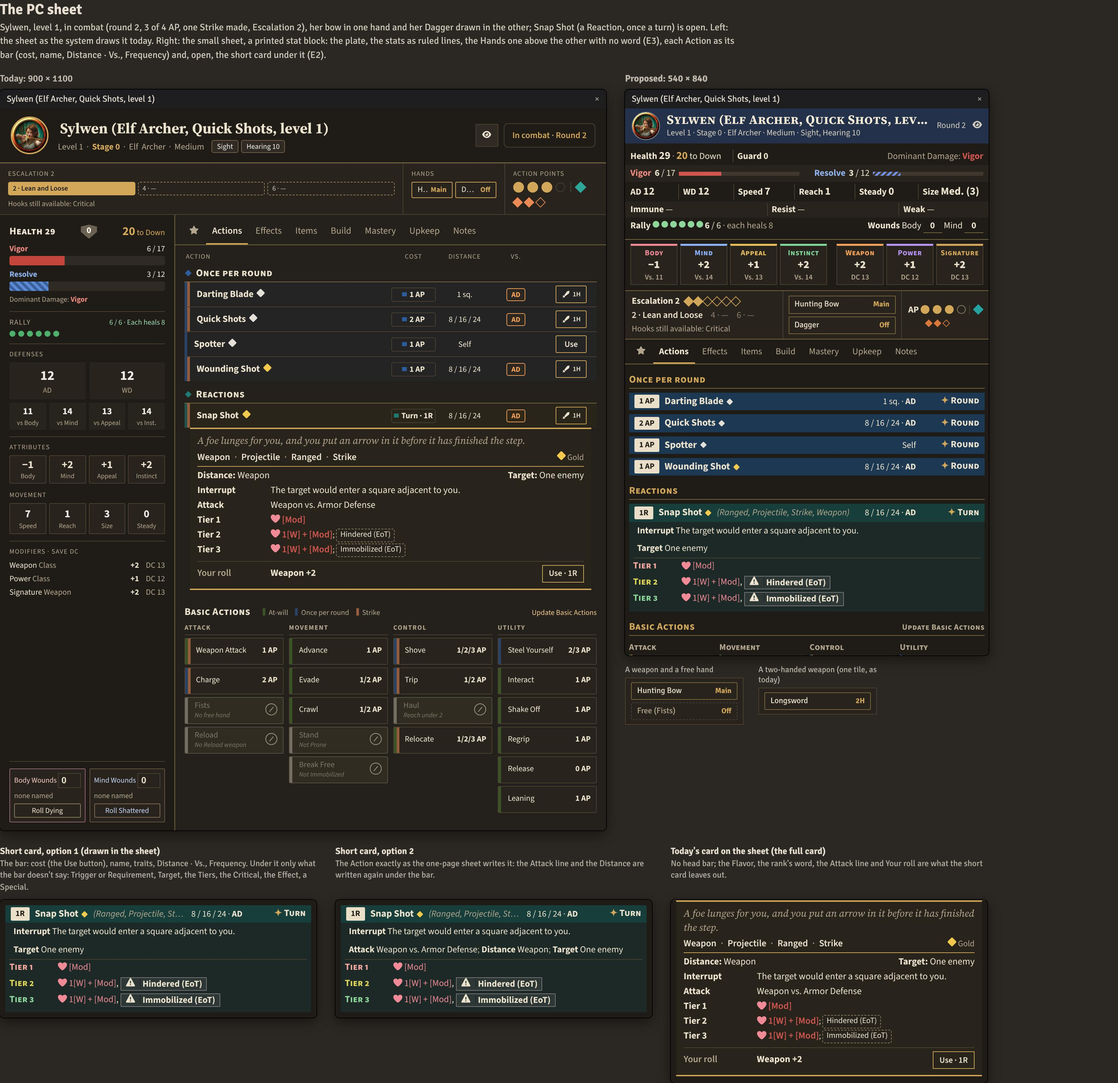
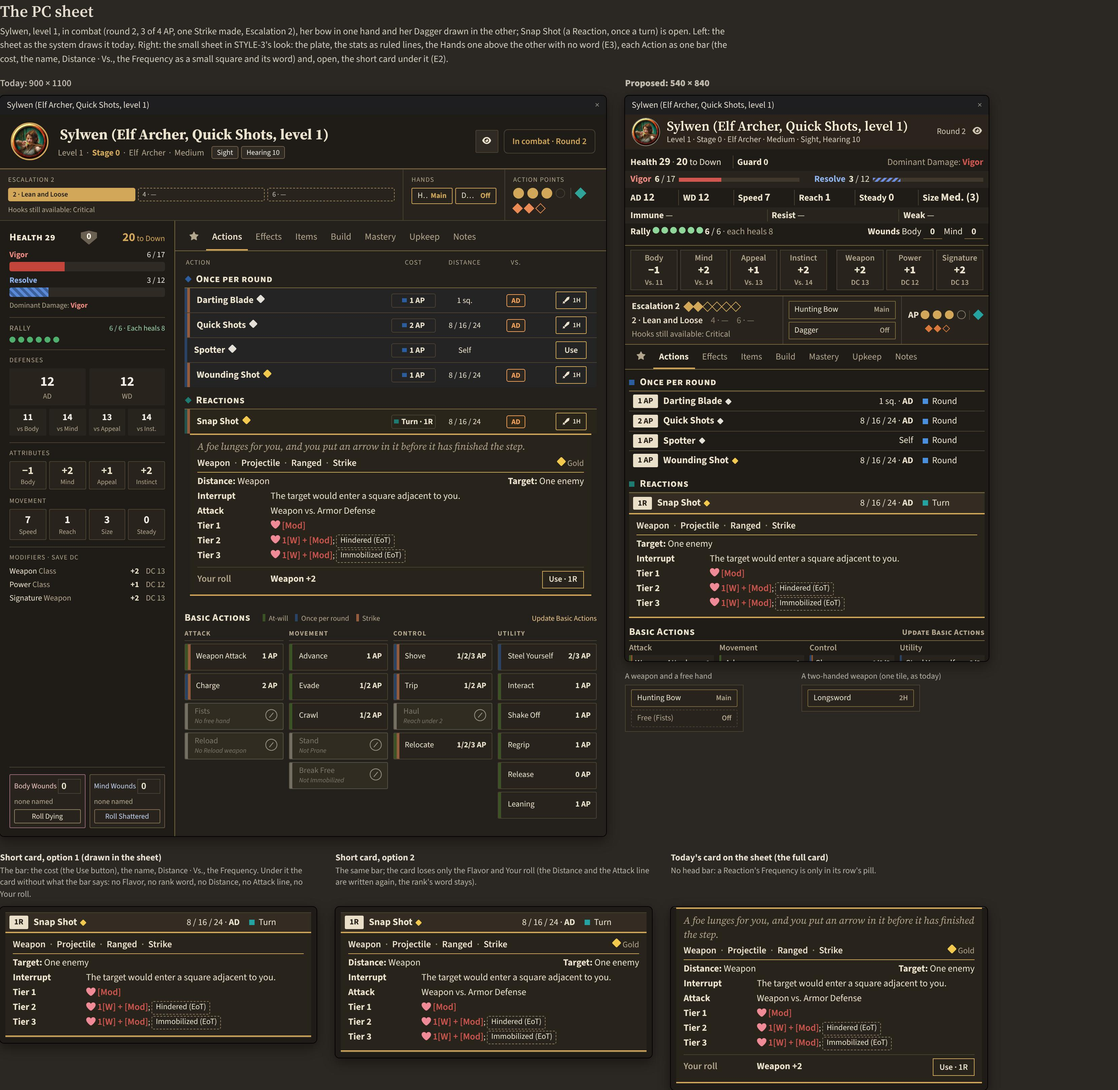
The sheet mockups redrawn in STYLE-3's look (Source Serif 4 / Source Sans 3, color only for a meaning, the Frequency a small square, the approved Action card as the short card); the one-page NPC sheet dropped (Lucas: the NPC sheet is already better)
Claude-Session: https://claude.ai/code/session_0153o4CfCUCLH9G4ipibAUr7

diff --git a/foundry/mockups/sheets/sheets.css b/foundry/mockups/sheets/sheets.css
@@ -1,5 +1,5 @@
 /* The sheets redesign mockup: the page, and the proposals' layout. */
-body { margin: 0; padding: 20px; font-family: "Signika", sans-serif; font-size: 14px; } * { animation: none !important; transition: none !important; }
+body { margin: 0; padding: 20px; font-family: "Source Sans 3", sans-serif; font-size: 14px; } * { animation: none !important; transition: none !important; }
 body.theme-dark { background: #2b2722; color: #e6dfd1; } body.theme-light { background: #ddd6c8; color: #1d1a16; }
 .mk-err { color: #f66; font: 12px monospace; white-space: pre-wrap; }
 .mk-cols { display: flex; gap: 28px; align-items: flex-start; }
@@ -8,8 +8,8 @@ body.theme-dark { background: #2b2722; color: #e6dfd1; } body.theme-light { back
 .mk-win > .application > .window-header { flex: none; display: flex; align-items: center; justify-content: space-between; height: 30px; padding: 0 10px; background: #14110e; color: #e6dfd1; font-size: 13px; }
 .mk-win > .application > .window-content { position: relative; flex: 1; min-height: 0; display: flex; flex-direction: column; overflow: hidden; }
 i.fa-x { display: inline-flex; width: 1em; height: 1em; vertical-align: -0.125em; } i.fa-x > svg { width: 1em; height: 1em; fill: currentColor; }
-h2 { font: 700 22px "Signika", sans-serif; margin: 0 0 4px; } h3 { font: 600 14px "Signika", sans-serif; margin: 0 0 8px; opacity: .8; } h3 b { opacity: 1; }
-h4 { font: 700 13.5px "Signika", sans-serif; margin: 0 0 2px; }
+h2 { font: 600 24px "Source Serif 4", serif; margin: 0 0 4px; } h3 { font: 600 14px "Source Sans 3", sans-serif; margin: 0 0 8px; opacity: .8; } h3 b { opacity: 1; }
+h4 { font: 700 13.5px "Source Sans 3", sans-serif; margin: 0 0 2px; }
 .mk-lead { max-width: 1100px; margin: 0 0 16px; line-height: 1.45; opacity: .9; } .mk-pair { margin-bottom: 44px; }
 #nav { display: flex; gap: 14px; margin-bottom: 18px; font-size: 13px; } #nav a { color: inherit; opacity: .7; } #nav a.on { opacity: 1; font-weight: 700; text-decoration: none; }
 .mk-win > .application > .window-header .mk-x { opacity: .6; }
@@ -25,7 +25,7 @@ h4 { font: 700 13.5px "Signika", sans-serif; margin: 0 0 2px; }
 .mk-sheet, .mk-long { display: flex; flex-direction: column; flex: 1; min-height: 0; background: var(--s-pg); color: var(--s-ink); }
 .mk-sheet.mk-loose { display: block; } .mk-sheet.mk-loose .sb-body { padding: 8px; }
 .mk-scroll { flex: 1; min-height: 0; overflow: hidden; }
-.twod12-sb.rk-pc { --rk: #23324a; }
+.twod12-sb.rk-pc { --rk: #2a241d; }
 .mk-pad { padding: 0 8px 8px; }
 /* the plate: the portrait and the line under the name */
 .twod12-sb .mk-plate { gap: 10px; padding: 5px 10px; flex: none; }
@@ -54,7 +54,7 @@ h4 { font: 700 13.5px "Signika", sans-serif; margin: 0 0 2px; }
 .mk-esc .mk-q { font-size: 12.5px; }
 /* E3: no word "Hands"; one hand above the other; each tile the size it has today (12 px, 4 px 8 px) */
 .mk-hands { display: flex; flex-direction: column; justify-content: center; gap: 4px; padding: 6px 8px; }
-.mk-hand { all: unset; box-sizing: border-box; display: flex; justify-content: space-between; align-items: baseline; gap: 8px; padding: 4px 8px; border: 1px solid var(--s-rule); border-radius: 2px; font: 400 12px/1.35 "Signika", sans-serif; color: var(--s-ink); cursor: pointer; }
+.mk-hand { all: unset; box-sizing: border-box; display: flex; justify-content: space-between; align-items: baseline; gap: 8px; padding: 4px 8px; border: 1px solid var(--s-rule); border-radius: 2px; font: 400 12px/1.35 "Source Sans 3", sans-serif; color: var(--s-ink); cursor: pointer; }
 .mk-hand span { min-width: 0; overflow: hidden; text-overflow: ellipsis; white-space: nowrap; } .mk-hand b { color: var(--s-gold); font-size: 11px; }
 .mk-hand.free { border-style: dashed; border-color: var(--s-hair); color: var(--s-mute); } .mk-hand.warn { border-color: #e0a030; }
 .mk-ap { align-items: flex-start; gap: 6px; }
@@ -65,24 +65,35 @@ h4 { font: 700 13.5px "Signika", sans-serif; margin: 0 0 2px; }
 /* the tabs */
 .mk-tabs { display: flex; gap: 2px; padding: 4px 8px 0; border-bottom: 1px solid var(--s-rule); flex: none; }
 .mk-tabs a { padding: 5px 9px 6px; color: var(--s-mute); font-size: 13.5px; border-bottom: 2px solid transparent; cursor: pointer; white-space: nowrap; } .mk-tabs a.on { color: var(--s-ink); font-weight: 700; border-bottom-color: var(--s-gold); } .mk-tabs a small { color: var(--s-gold); font-weight: 700; }
-/* an Action's bar (the stat-block face's header) and the short card under it */
-.twod12-sb .mk-oa .sb-oa-h { cursor: pointer; padding-top: 3px; padding-bottom: 3px; } .twod12-sb .mk-oa .sb-oa-h .n { white-space: nowrap; } .twod12-sb .mk-oa:not(.open) { background: none; }
-.twod12-sb .mk-oa .sb-oa-h .autodia { font-size: 9px; margin-left: -3px; }
-.mk-dv { margin-left: auto; white-space: nowrap; color: var(--s-ink); font-size: 13px; } .mk-dv + .fq { margin-left: 4px !important; min-width: 82px; text-align: right; } .mk-vs { font-weight: 700; }
-.twod12-sb .mk-oa .sb-oa-h .tr { flex: 0 1 auto; }
 .mk-tools { display: flex; justify-content: flex-end; gap: 16px; font-size: 12.5px; color: var(--s-mute); } .mk-tools a { color: inherit; cursor: pointer; }
 /* the Basic Actions */
 .mk-basic { display: grid; grid-template-columns: repeat(4, minmax(0, 1fr)); gap: 0 8px; align-items: start; }
 .mk-bh { display: block; padding: 2px 0; font-weight: 700; font-variant: small-caps; color: var(--s-mute); font-size: 13px; }
-.mk-bx { all: unset; box-sizing: border-box; display: flex; justify-content: space-between; align-items: center; gap: 6px; width: 100%; min-height: 25px; padding: 2px 6px; margin-bottom: 3px; border-left: 3px solid var(--lnf); background: var(--s-pg-2); font: 400 13px/1.25 "Signika", sans-serif; color: var(--s-ink); cursor: pointer; }
+.mk-bx { all: unset; box-sizing: border-box; display: flex; justify-content: space-between; align-items: center; gap: 6px; width: 100%; min-height: 25px; padding: 2px 6px; margin-bottom: 3px; border-left: 3px solid var(--lnf); background: var(--s-pg-2); font: 400 13px/1.25 "Source Sans 3", sans-serif; color: var(--s-ink); cursor: pointer; }
 .mk-bx.strike { box-shadow: inset 2px 0 0 #d9773a; } .mk-bx span { min-width: 0; overflow: hidden; text-overflow: ellipsis; white-space: nowrap; } .mk-bx b { font-size: 12px; white-space: nowrap; }
 .mk-bx.off { color: var(--s-faint); background: none; border-left-style: dashed; } .mk-bx small { display: block; font-size: 10.5px; font-style: italic; }
-/* the long page's tail: Effects, Notes, Build */
-.mk-long .mk-tail .sb-body { padding-top: 0; }
-.mk-fx { display: grid; grid-template-columns: 96px minmax(0, 1fr) auto 14px; gap: 8px; padding: 3px 4px; border-bottom: 1px solid var(--s-hair); align-items: baseline; } .mk-fx .du { color: var(--s-mute); font-size: 12.5px; white-space: nowrap; } .mk-fx a { color: var(--s-mute); cursor: pointer; } .mk-fx.none { display: block; color: var(--s-mute); font-style: italic; } .mk-fx .tx p { margin: 0; }
-.mk-notes { padding: 2px 4px 4px; line-height: 1.45; } .mk-notes p { margin: 0 0 4px; }
-.mk-bsum { display: flex; flex-wrap: wrap; gap: 2px 16px; padding: 2px 4px; color: var(--s-ink); } .mk-bsum .k { font-weight: 700; }
 .twod12-sb .sb-band .add i, .twod12-sb .sb-band .r i { font-size: 10px; }
-.mk-long > .twod12-sb.sb-platew { flex: none; } .mk-end .mk-scroll, .mk-long .mk-scroll { overflow: hidden; }
-.mk-inset { display: flex; gap: 22px; align-items: flex-start; margin-top: 14px; } .mk-inset > div { width: 176px; } .mk-inset .mk-hands { padding: 0; } .mk-inset p { margin: 0 0 4px; font-size: 12px; opacity: .75; }
-.mk-inset .mk-hands { background: var(--s-pg-2); padding: 6px 8px; border: 1px solid var(--s-hair); }
+
+/* ------------------------------------------------------------------ STYLE-3 (style-book.md, v0.0.387) on the proposals */
+/* the one big title in the serif, in its own case (no capitals); everything else Source Sans 3 */
+.mk-sheet.twod12-sb .mk-plate .nm { font: 600 20px/1.2 "Source Serif 4", serif; font-variant: normal; letter-spacing: 0; }
+/* color only for a meaning: the tiles in ink, no colored tops; labels in their own case */
+.mk-sheet.twod12-sb .mk-attrs .sb-attr { --ac: var(--s-mute); border: 1px solid var(--s-hair); border-top: 1px solid var(--s-hair); }
+.mk-sheet.twod12-sb .mk-attrs .sb-attr span { font: 600 12.5px "Source Sans 3", sans-serif; font-variant: normal; letter-spacing: 0; color: var(--s-mute); }
+.mk-sheet.twod12-sb .sb-band { color: var(--s-ink); } .mk-sq { display: inline-block; width: 8px; height: 8px; align-self: center; flex: none; }
+.mk-hand b { color: var(--s-mute); font-weight: 600; }
+.mk-bh { font-variant: normal; font-weight: 600; font-size: 12.5px; }
+/* an Action's bar: the neutral band, the stamp, the Frequency a small square beside its word */
+.mk-oa { border-top: 1px solid var(--s-hair); } .mk-oa:last-of-type { border-bottom: 1px solid var(--s-hair); } .mk-oa.dim > * { opacity: .5; }
+.mk-sheet .sb-body { gap: 0; } .mk-sheet .sb-body > .sb-band { margin-top: 10px; margin-bottom: 0; border-bottom-color: var(--s-rule); } .mk-sheet .sb-body > .sb-band:first-child, .mk-sheet .sb-body > .mk-tools + .sb-band { margin-top: 2px; }
+.mk-bar { display: flex; align-items: center; gap: 8px; padding: 4px 8px 4px 6px; cursor: pointer; } .mk-oa.open > .mk-bar { background: var(--s-band); }
+.mk-bar .n { font-weight: 700; font-size: 14.5px; color: var(--s-ink); white-space: nowrap; } .mk-bar .tr { font-style: italic; color: var(--s-mute); white-space: nowrap; overflow: hidden; text-overflow: ellipsis; min-width: 0; }
+.mk-bar .autodia { font-size: 9px; margin-left: -3px; }
+.mk-dv { margin-left: auto; white-space: nowrap; font-size: 13.5px; color: var(--s-ink); } .mk-dv b { font-weight: 700; }
+.mk-fq { display: inline-flex; align-items: center; gap: 6px; min-width: 84px; justify-content: flex-start; font-size: 13.5px; color: var(--s-ink); white-space: nowrap; margin-left: 6px; } .mk-fq i { width: 8px; height: 8px; flex: none; }
+/* the short card: the system's Action card under the bar (its own frame's rule kept at the bottom) */
+.mk-oa > .mk-short { margin: 0; padding: 6px 10px 8px 10px; border: 0; border-bottom: 1px solid var(--s-gold); background: var(--s-pg-2); }
+/* the Basic Actions' strips, muted (step 3) */
+.mk-bx { border-left-color: color-mix(in srgb, var(--lnf) 55%, var(--s-pg-2)); } .mk-bx.strike { box-shadow: inset 2px 0 0 color-mix(in srgb, #d9773a 55%, var(--s-pg-2)); }
+.mk-inset { display: flex; gap: 22px; align-items: flex-start; margin-top: 14px; } .mk-inset > div { width: 240px; } .mk-inset p { margin: 0 0 4px; font-size: 12px; opacity: .75; }
+.mk-inset .mk-hands { width: 176px; box-sizing: border-box; background: var(--s-pg-2); padding: 6px 8px; border: 1px solid var(--s-hair); }

diff --git a/foundry/mockups/sheets/README.md b/foundry/mockups/sheets/README.md
@@ -1,15 +1,20 @@
 # The sheets redesign (playtest 5, E1 / E2 / E3 / E6): the mockup
 
-Lucas (playtest 5): "Both sheets will need some changes. PCs and normal NPC sheet should be small, but the one-page should be long"; a Reaction
-previewed on the sheet doesn't show its Frequency (E2); the Hands are the right size but don't fit: no word "Hands", one hand above the other
-(E3); Blunt on the dark NPC sheet is too close to the background (E6).
+Lucas (playtest 5): "Both sheets will need some changes. PCs and normal NPC sheet should be small"; a Reaction previewed on the sheet doesn't
+show its Frequency (E2); the Hands are the right size but don't fit: no word "Hands", one hand above the other (E3); Blunt on the dark NPC sheet
+is too close to the background (E6).
 
-**A mockup only: nothing in `foundry/twod12/` or `book/` changed.** For each of the three sheets the page draws **today's sheet next to the
+**Round 2 (Lucas, 2026-11-18: "good and compact", but the colors and the Tier colors followed old rules, and "no need for one-page sheet since
+the npc one is already better anyway"):** the proposals are redrawn in STYLE-3's look (`../style-book.md`, "Lucas's answers", built v0.0.387)
+and the one-page NPC sheet is out of the mockup. **In the build the one-page NPC sheet would be retired** (`NpcStatBlockSheet`, the world
+setting "New NPCs open with", `statblock.mjs`'s sheet face; "Post stat block" is the full sheet's own and stays).
+
+**A mockup only: nothing in `foundry/twod12/` or `book/` changed.** For each of the two sheets the page draws **today's sheet next to the
 proposal**, dark and light.
 
 - `index.html` (`sheets.mjs`, `model.mjs`, `proposal.mjs`, `stubs.mjs`, `sheets.css`): open it through a local server from the repository's root
-  (`/foundry/mockups/sheets/index.html?theme=dark|light&sheet=pc|npc|onepage`; the links at the top switch).
-- Screenshots (2x): `pc-dark.jpg`, `pc-light.jpg`, `npc-dark.jpg`, `npc-light.jpg`, `onepage-dark.jpg`, `onepage-light.jpg`.
+  (`/foundry/mockups/sheets/index.html?theme=dark|light&sheet=pc|npc`; the links at the top switch).
+- Screenshots (2x): `pc-dark.jpg`, `pc-light.jpg`, `npc-dark.jpg`, `npc-light.jpg`.
   `node foundry/mockups/sheets/shoot.mjs` remakes them (Playwright); `node foundry/mockups/sheets/data.mjs` remakes `actors.json` from the built packs.
 
 ## The sizes
@@ -18,38 +23,38 @@ proposal**, dark and light.
 |---|---|---|
 | The PC sheet (Sylwen, level 1) | 900 × 1100 | **540 × 840** |
 | The full NPC sheet (the Orc Warrior) | 900 × 1100 | **540 × 760** |
-| The one-page NPC sheet (the Ogre Chieftain) | 480 × 820 | **480 × 1000** |
 
-The two small sheets take a little under half the area they take today. At these sizes, with one card open: Sylwen's five Actions and the open
-card show without scrolling and the Basic Actions start at the fold; the Orc's three Actions and its open card show whole. The Ogre (an Elite, the
-book's longest stat block) shows every Action and its Escalation ladder in the 1000 px (today's 820 px stops inside the ladder); its Attribute
-tiles, Effects, Notes and Build are one scroll below (the third picture).
+A little under half the area they take today. With one card open: Sylwen's five Actions and the open card show without scrolling and the Basic
+Actions start at the fold; the Orc's three Actions and its open card show whole.
 
-## The idea: one family
+## The look (STYLE-3)
 
-The settled look says a sheet is a printed stat block, and the one-page NPC sheet already is one (`.twod12-sb` in system.css). The proposal makes
-the three sheets one family, with that CSS:
+- **Type:** Source Serif 4 for the one big title (the name on the plate, in its own case, no capitals); Source Sans 3 for everything read.
+- **Color only for a meaning:** game words, the Attribute and Modifier tiles (no colored tops), the Hands' grip words, "to Down" and the section
+  headings in ink. Kept: the bronze accent (rules, the open tab, the Escalation pips), the stamp, the pools (Vigor red, Resolve blue), the rank's
+  color on an NPC's plate (a PC's plate is the neutral dark head it has today), the subtypes' colors, the automation diamond.
+- **The Frequency is a small colored square beside its word** ("■ Round"), on each Action's bar and on the section's heading; the bar itself is
+  neutral (the band's tone when open). The Basic Actions keep their vertical strips, muted.
+- **No Tier color on the card:** the short card is the approved Action card (style-book step 5: labeled lines, "Tier 1" in ink). No Tier result
+  is drawn on a sheet, so palette A doesn't appear here.
 
-- **The two small sheets:** the name plate (the rank's color; a PC's is the old sheet's navy), the stats as ruled lines, the Attribute and
-  Modifier tiles, one combat line, the tabs, and **each Action as its header bar only**; a click opens the **short card** under the bar.
-- **The long one-page:** no tabs. The stat block exactly as `statblock.mjs` draws it today (`sbPlateHtml`, `statBlockHtml`), every Action written
-  out, then Effects, Notes, GM notes and Build down the page.
+## The layout
 
-So the small sheets are the long one folded: an Action's bar and its open body are the stat block's own Action (`sbActionModel` + `sbActionHtml`,
-the card model's face), not a new card.
+The name plate, the stats as ruled lines, the Attribute and Modifier tiles, one combat line, the tabs, and **each Action as one bar**; a click
+opens the **short card** under the bar.
 
 ## E2: the short card
 
-Today the sheet's open card has no head bar, so a Reaction never says "Turn". In the proposal **the row is the card's head bar**, open or closed:
-the cost (the stamp), the name, Distance · Vs., and the Frequency ("✦ Turn") in the Frequency's color. The short card is what opens under it.
-Two options, both drawn under the PC pair beside today's full card:
+Today the sheet's open card has no head bar, so a Reaction's Frequency is only in its row's pill. In the proposal **the row is the card's head
+bar**, open or closed: the cost (the stamp), the name, Distance · Vs., and the Frequency (its square and its word). The short card opens under
+it: the system's own Action card (`actioncard.mjs buildActionCard`) with lines left out. Two options, both drawn under the PC pair beside
+today's full card:
 
-- **Option 1 (recommended, drawn in the sheets): only what the bar doesn't say.** Under the bar: the traits (in the bar, while it is open), the
-  Requirement / Trigger / Setup, the Target (and Area), the Tiers as three lines, the Critical, the Effect, a Special. **Dropped from the full
-  card:** the Flavor, the automation rank's word (its diamond stays beside the name), the Attack / Save line and the Distance (the bar's
-  "8 / 16 / 24 · AD" says them), "Your roll" (the roll dialog shows it), the Ruler line.
-- **Option 2: the stat block's Action as the one-page writes it.** The same, but the Attack line and the Distance are written again under the
-  bar. No new flag in the code; one line longer.
+- **Option 1 (recommended, drawn in the sheets): without what the bar says.** Kept: the trait words, Target (and Area), the Requirement /
+  Trigger / Setup, the Tiers, the Critical, the Effect, a Special. **Dropped from the full card:** the Flavor, the automation rank's word (its
+  diamond stays beside the name), the Distance and the Attack / Save line (the bar's "8 / 16 / 24 · AD"), "Your roll" (the roll dialog shows
+  it), the Ruler line.
+- **Option 2:** only the Flavor and "Your roll" are dropped; the Distance, the Attack line and the rank's word are written under the bar.
 
 The full card stays where it is today (the chat's Card button, the hover card, the Action sheet).
 
@@ -61,26 +66,25 @@ drawn (the sheet, and the two small pictures under it).
 
 ## E6: Blunt on the dark sheet
 
-The cause, seen in today's pictures: a damage type's word and its flat amount carry the parchment's ink as an inline color (`config.mjs`
-`subtypeInk`: Blunt `#5a4a36`, Slash `#4a5058`) on every theme. The proposals use the bright set on dark (`subtypeColors`: Blunt bronze
-`#b9a58c`, what the Resist / Weak chips already do with `--sc-l` / `--sc-d`). **Found beside it:** on a *light* sheet the stat block writes the
-Vigor / Resolve dice in the dark set's pale pink and blue (see "Today" in `onepage-light.jpg`); the proposals give them the light set's colors.
+The cause, seen in today's NPC picture (the cleaver's "Slash"): a damage type's word and its flat amount carry the parchment's ink as an inline
+color (`config.mjs` `subtypeInk`: Blunt `#5a4a36`, Slash `#4a5058`) on every theme. The proposals use the bright set on dark (`subtypeColors`:
+Blunt bronze `#b9a58c`, what the Resist / Weak chips already do with `--sc-l` / `--sc-d`).
 
 ## What each proposal adds, moves or removes (veto any line)
 
 **The PC sheet**
 - *Moved:* the side panel is gone; its content is the ruled lines on top (Health, to Down, Guard, Dominant Damage; the Vigor and Resolve bars,
   still the damage taken, Lethal solid and Nonlethal hatched; AD, WD, Speed, Reach, Steady, Size; Immune / Resist / Weak; Rally and the Wound
-  counts). The four "vs" Defenses go into the Attribute tiles ("Vs. 11"), the Modifiers and their Save DCs into three tiles beside them (as the
-  one-page sheet does). The Senses become words in the line under the name. "In combat · Round 2" becomes "Round 2" on the plate; Roll
-  Initiative becomes the plate's die icon (shown when there is a roll to make), as on the one-page sheet.
+  counts). The four "vs" Defenses go into the Attribute tiles ("Vs. 11"), the Modifiers and their Save DCs into three tiles beside them. The
+  Senses become words in the line under the name. "In combat · Round 2" becomes "Round 2" on the plate; Roll Initiative becomes an icon on the
+  plate (shown when there is a roll to make).
 - *Moved:* in a row, the cost pill becomes the stamp at the left, **and the stamp is the Use button** (decision 3); Distance and Vs. are words at
-  the right, not columns (the column header line goes).
+  the right, not columns (the column header line goes); the Frequency's square leaves the pill for the right end, with its word.
 - *Moved:* the Wounds' "Roll Dying" / "Roll Shattered" buttons and "none named" leave the front for the Upkeep tab's Wounds section (the counts
   stay on the front).
-- *Added:* the Frequency on every row (E2); six Escalation pips beside the three rungs (the rungs become words, lit or faint).
-- *Removed:* the word "Hands" (E3); the row's weapon button with its grip tag ("1H"); the Basic Actions' legend (At-will / Once per round /
-  Strike: each button keeps its colored edge); from the open card, what the short card drops.
+- *Added:* the Frequency's word on every row (E2); six Escalation pips beside the three rungs (the rungs become words, lit or faint).
+- *Removed:* the word "Hands" (E3); the row's weapon button with its grip tag ("1H"); the Vs. chip's colored box (the word stays, bold); the
+  Basic Actions' legend (each button keeps its strip); from the open card, what the short card drops.
 - *Kept as they are:* the tabs and what is in them (Effects, Items, Build, Mastery, Upkeep, Notes), the Favorites star, the sections' names, the
   Basic Actions' four columns (each Action one line instead of a box).
 
@@ -90,50 +94,41 @@ Vigor / Resolve dice in the dark set's pale pink and blue (see "Today" in `onepa
   PC's Escalation does.
 - *Kept:* the tabs (Actions, Effects, Builder, Loot, GM notes), "Basic attack · Medium" beside the Basic attack's name.
 
-**The one-page NPC sheet**
-- *Removed:* the tab bar (Main, Build, Effects, Notes).
-- *Moved:* Effects, Notes and Build become sections after the stat block. Effects: conditions then effects, one ruled line each (name, text,
-  duration, remove), without their picture squares; the drop zone's box becomes words in the section's heading (the whole sheet takes the drop).
-  Notes: each of today's four fields shown when it has text, with an Edit link. Build: a closed heading with the Builder's own summary (Health,
-  Turn budget, Best turn, CV steps); opened, it is today's Builder (decision 4).
-- *Unchanged:* the plate and the stat block (the same functions, the same output), but for E6's colors.
-
 ## Decisions for Lucas (answer by exception: "all defaults except 2")
 
-1. **The sizes.** *Default:* PC 540 × 840, full NPC 540 × 760, one-page 480 × 1000 (its width is the one you chose in v0.0.377). Otherwise: give
-   the numbers.
-2. **The short card.** *Default:* option 1 (only what the bar doesn't say). Otherwise: option 2 (the one-page's Action as it is).
-3. **The cost stamp is the Use button on the small sheets**, as on the one-page sheet and the HUD ("a Version is the button"); the row's separate
-   Use / weapon button goes. A PC holding two weapons that both fit the Action keeps a small button for each hand after the stamp. *Default:*
-   yes. Otherwise: the Use button stays at the right end as today and the cost is written as words.
-4. **The one-page's Build.** *Default:* a closed section at the end of the page (the page has no tabs at all). Otherwise: the page keeps one tab
-   pair, "Sheet" and "Build".
+1. **The sizes.** *Default:* PC 540 × 840, full NPC 540 × 760. Otherwise: give the numbers.
+2. **The short card.** *Default:* option 1 (without what the bar says). Otherwise: option 2 (only the Flavor and Your roll dropped).
+3. **The cost stamp is the Use button**, as on the HUD ("a Version is the button"); the row's separate Use / weapon button goes. A PC holding
+   two weapons that both fit the Action keeps a small button for each hand after the stamp. *Default:* yes. Otherwise: the outlined Use button
+   stays at the right end as today and the cost is written as words.
 
 ## What is real code and what is not
 
 - **Real:** today's sheets are the system's own template (`templates/actor-sheet-pc.hbs`, through Handlebars 4.7.8, `handlebars.min.js` here),
-  `styles/system.css` + `theme.css`, the open cards by `actioncard.mjs buildActionCard`, the one-page by `statblock.mjs` (`statBlockModel`,
-  `statBlockHtml`, `sbPlateHtml`). The numbers come from the system's data model (`data.mjs prepareDerivedData`, run on the compendium actor).
-  In the proposals every Action bar and short card is `sbActionModel` + `sbActionHtml`; the stat lines, tiles, bands and plate use the stat
-  block's CSS; the long page calls `sbPlateHtml` and `statBlockHtml` unchanged.
+  `styles/system.css` + `theme.css`, the open cards by `actioncard.mjs buildActionCard`. The numbers come from the system's data model
+  (`data.mjs prepareDerivedData`, run on the compendium actor). In the proposals the short card is `buildActionCard`'s own output with elements
+  removed (in the build: a `short` option of that face, so the card model still decides what a card says).
 - **Not real:** `pcsheet.mjs pcModel` needs a live Foundry actor and combat, so `model.mjs` builds the same shape from the compendium actor with
-  the sheet's pure pieces (`sheetmodel.mjs`, `config.mjs`, `pcsheet.mjs handTiles` and `npcBuilderModel`): every row is usable, nothing is used
-  up, no favorites. Foundry's window frame and its own CSS are not on the page (the frame is drawn); Font Awesome and Signika are Foundry's:
-  the mockups' drawn icons and embedded Signika stand in (the weapon button's sword is drawn here).
-- **The proposals' layout** is the mockup's CSS (`sheets.css`, `.mk-*`). Option 1's short card is `sbActionHtml` with the Attack / Save and
-  Distance entries taken out of its model, and the bar's Distance · Vs. words are put in by the mockup: in the build, a `short` flag of the stat
-  block face.
-- **Not drawn:** the other tabs of the small sheets. They keep their content; their column goes from 640 px (900 less the side panel) to 540 px,
-  and the Builder's damage table is the one that will need care. The opened Build section of the long page (today's Builder at 480 px, as the
-  one-page's Build tab shows it now). The out-of-combat state (the combat line then holds only the Hands). Decision 3's two
-hand buttons for a PC whose two held weapons both fit an Action (Sylwen's bow and Dagger never fit the same one). E5 (a sheet's own light theme under
-  Foundry's dark scheme) needs Foundry.
+  the sheet's pure pieces (`sheetmodel.mjs`, `config.mjs`, `pcsheet.mjs handTiles`): every row is usable, nothing is used up, no favorites.
+  Foundry's window frame and its own CSS are not on the page (the frame is drawn); Font Awesome is Foundry's: the mockups' drawn icons stand in
+  (the weapon button's sword is drawn here).
+- **The proposals' layout** is the mockup's CSS (`sheets.css`, `.mk-*`). The plate, the ruled stat lines, the tiles, the headings and the stamp
+  borrow the one-page sheet's rules (`.twod12-sb`: `sb-plate`, `sbl`, `sb-attr`, `sb-band`, `sb-vb`) with STYLE-3 laid over them in the mockup;
+  the build writes them as the sheet's own rules when the one-page sheet goes.
+- **Not drawn:** the other tabs. They keep their content; their column goes from 640 px (900 less the side panel) to 540 px, and the Builder's
+  damage table is the one that will need care. The out-of-combat state (the combat line then holds only the Hands). Decision 3's two hand
+  buttons for a PC whose two held weapons both fit an Action (Sylwen's bow and Dagger never fit the same one). E5 needs Foundry.
 - **Example state** laid on the compendium data: Sylwen in combat (round 2, 3 AP, one Strike, Escalation 2, 6 Vigor and 3 Nonlethal Resolve
-  damage) with her Dagger drawn in the off hand; the Orc with Resist 2 Blunt and Weak 2 Fire; the Ogre at Escalation 3 with Resist 2 Blunt, the
-  condition Hindered and two notes.
+  damage) with her Dagger drawn in the off hand; the Orc with Resist 2 Blunt and Weak 2 Fire.
+
+## Still in today's colors inside the proposals (they come from the system's code or today's sheet)
+
+- **A trait word in a card's text** ("[Strike]" in Avenge Kin's Trigger) keeps its tinted box: `config.mjs highlightText` (`.trhl`, the trait
+  group's color). STYLE-3 dropped the trait chips' fills; this one is still filled today. The build: the word in ink.
+- **The AP pips (accent), the Reaction AP's teal diamond, the Strikes' orange diamonds and Rally's green pips** are copied from today's sheet as
+  v0.0.387 left it. If "AP to ink" is meant for the pips too, the build draws them in ink.
+- **The damage line** (the pool's heart and dice in the pool's color, the type's word in its color) is the card's own: kept by STYLE-3.
 
 ## Seen in today's sheets while drawing them (not part of this mockup)
 
 - The Reactions' pill "Round · 1R" wraps onto two lines in its column (the Orc's Avenge Kin).
-- Ground Slam (the Ogre) writes no Area on any face: the item has the area's settings (a 2 Emanation) but no Area text.
-- The one-page's tile row leaves an empty column and wraps "Weapon Mod." when the NPC has no Power Modifier.

diff --git a/foundry/foundry-backlog.md b/foundry/foundry-backlog.md
@@ -71,7 +71,7 @@ The book: `rules-src/13-archer.md`, the cards in `book/cards/stage0/archer.json`
 - [x] **(v0.0.422) The hover card over a placed area is kept** (Lucas, 2026-11-18: "Keep it"; `module/zonetip.mjs`, his playtest 4 ask; the third hover left with the HP bars and the reasons a button is off). The audit's other question (two Judges vs. conditions) went into the book: rules-backlog "STACKING, A CARD SAYS SO".
 - [ ] **The version checklists (Lucas, 2026-11-18: "there should be a better way for me to follow the Checklists every Version ... maybe something that can be wired directly into Foundry"): PROPOSED; Lucas picked option 3 (2026-11-18: "I think I will go with 3"); BUILT in v0.0.425 (`module/checklist.mjs`, `foundry/to-test.md`, test t268). Left: option 4's set-up buttons (a Test Arena), option 5 (the system runs the checks), both later.** Found: the checklists are one section per version in this file (154 open boxes, 94 of them from v0.0.387-406, which Lucas approved when merging: "All works except momentum"; items a later version replaced stay open), v0.0.418-422's only in the reports and the changelog, and his results come back as free text. Proposed (the session's report): (1) one rolling list in "do / expect" lines, grouped by where you meet it, the approved and replaced items closed, only what the tests can't see (needed for any option); (2) a checklist page on his phone (an Artifact whose results Claude reads); (3) **recommended: a Test Checklist inside Foundry** (GM only, behind a world setting; a list window and a strip docked by the HUD showing one item; Pass / Fail / Skip and a note saved in the world; a Fail keeps the console errors and the version; "Copy report"; the list shipped in the release from the repo's list, a test keeping them equal); (4) set-up buttons on top of it (a Test Arena scene with the PCs and the Stage 0 NPCs, an item's button selects the token and opens the card); (5) later, the system runs the mechanical checks itself in the Arena. Mockup first for 3.
 - [ ] **The HUD mockup (Lucas, book/playtest-5.md 1g; NOT built):** D1 the Basic tab refitted, D3 the macro bar at the bottom with the Hands above it, D4 a condition as an icon in the free space under AP / Esc (no growing HUD), D7 a Setup's movement in the HUD (no floating bar), D2's readable weight; **the Situational section** holding every "act now" control (Linked Actions, Forced Movements, Stand and Crawl while Prone, a Setup's movement, End movement, Judge's "reduce this damage?") **and the triggers** (a Reaction you can use shows there the moment it triggers). C's reasons on screen (the tooltip review) belong here too.
-- [ ] **E1, E2, E3, E6: MOCKUPS MADE (2026-11-18, `foundry/mockups/sheets/`, README, six screenshots; drawn with the system's own template and renderers; waiting for Lucas's four decisions: the sizes 540 × 840 / 540 × 760 / 480 × 1000, the short card option 1, the cost stamp as the Use button, the one-page's Build as a closed section). Also seen there: on a light sheet the stat block writes the Vigor / Resolve dice in the dark set's pale colors; a Reaction's pill "Round · 1R" wraps; Ground Slam has `areaCfg` but no Area text; the one-page's tile row with no Power Modifier.** Was: **E1, E3 (NOT in v0.0.418):** the sheet mockups (the PC and NPC sheets small, the one-page long; the Hands without the word, one hand above the other).
+- [ ] **E1, E2, E3, E6: MOCKUPS MADE (2026-11-18, `foundry/mockups/sheets/`, README, six screenshots; drawn with the system's own template and renderers; redrawn in STYLE-3's look the same day (Lucas: the colors and Tiers followed old rules; "no need for one-page sheet since the npc one is already better": the one-page NPC sheet dropped, to be retired in the build); waiting for Lucas's three decisions: the sizes 540 × 840 (PC) / 540 × 760 (NPC), the short card option 1, the cost stamp as the Use button). Also seen there: on a light sheet the stat block writes the Vigor / Resolve dice in the dark set's pale colors; a Reaction's pill "Round · 1R" wraps; Ground Slam has `areaCfg` but no Area text; the one-page's tile row with no Power Modifier.** Was: **E1, E3 (NOT in v0.0.418):** the sheet mockups (the PC and NPC sheets small, the one-page long; the Hands without the word, one hand above the other).
 - [x] **(v0.0.420: the inventory `foundry/tooltips-inventory.md` reviewed by Lucas, "remove both"; only the HP bars and the reasons a button is off are left (C: on screen with the mockups); test t264.)** **The tooltips (Lucas, 2026-11-17): "too much ... remove all for now"**, except the HP bars'. **First an inventory:** every tooltip written down, categorized (plain help, hover cards, the "why" of a struck button, calculated values, rule notes...), for Lucas's review. (Not built: a switch to bring them back; Lucas didn't ask for one. The removed ones are listed in the inventory, and a chip's calculation is kept in `data-calc`.)
 - [x] (v0.0.418) **The combat strip (F):** a full AP pip solid in the AP color, an empty one only its outline (a render check); Bloodied and Strained off the strip.
 - [x] (v0.0.419: asked on the bottom bar, not in the Reactions message) **Judge's reduction a choice** (rules-backlog "PLAYTEST 5, THE LOG"): offered to the Paladin's player when the Judged creature's damage would land on an ally within 5 squares (the damage waits, as Shield of Faith's), once a round; each Paladin's own.
